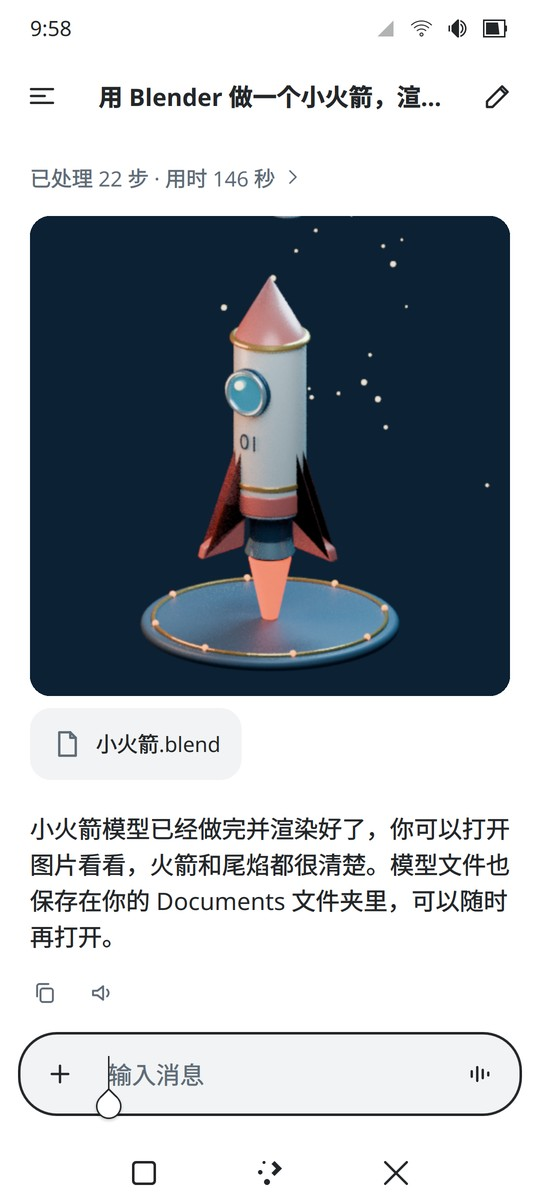
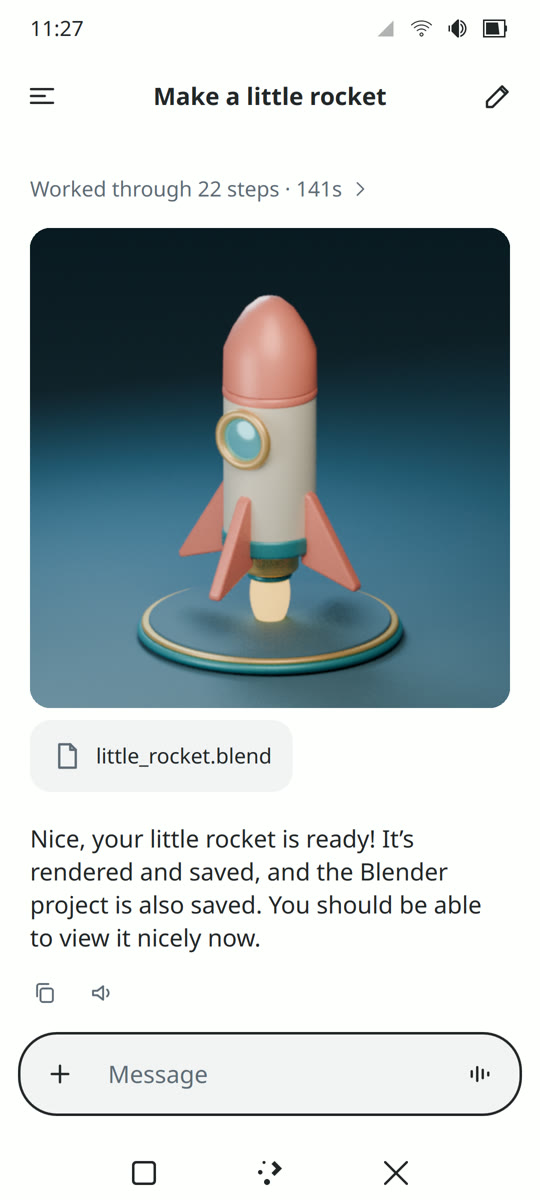
README media in English: demo GIF and screenshots re-recorded with the localized UI; the assistant's screen appears only after the task is sent

diff --git a/README.md b/README.md
@@ -8,7 +8,7 @@
   <img src="docs/images/readme/demo.gif" width="300" alt="Asked for a rocket, the assistant plans the work, builds the model in Blender on its own screen, renders it and hands back the picture and the file">
 </p>
 
-<p align="center"><sub>“Make a little rocket in Blender and render it for me.” The whole task took 2½ minutes; shown here sped up.</sub></p>
+<p align="center"><sub>“Make a little rocket in Blender and render it for me.” The whole task took about 2½ minutes; shown here sped up.</sub></p>
 
 Rungic turns a phone into a real computer. It opens to the KDE Plasma desktop and runs desktop software such as Firefox, Blender, Krita and VS Code. Connect a TV and it becomes a desktop PC.
 
@@ -127,7 +127,7 @@ The assistant has two parts: a realtime voice model talks with you, and an agent
 
 Rungic is under active development and in private preview. Still being polished:
 
-- The assistant speaks Chinese and its interface is in Chinese for now.
+- The interface follows the desktop's language (English and Chinese so far), and the assistant answers in the language you speak to it. Account setup and some technical documents are still in Chinese.
 - Larger tasks, such as modelling in 3D, take the assistant about two minutes; work to speed this up is under way.
 - The call agent, which makes and answers phone calls for you, is still being tested.
 - Vulkan desktop rendering flickers on this GPU family, so the desktop uses OpenGL ES for now.
